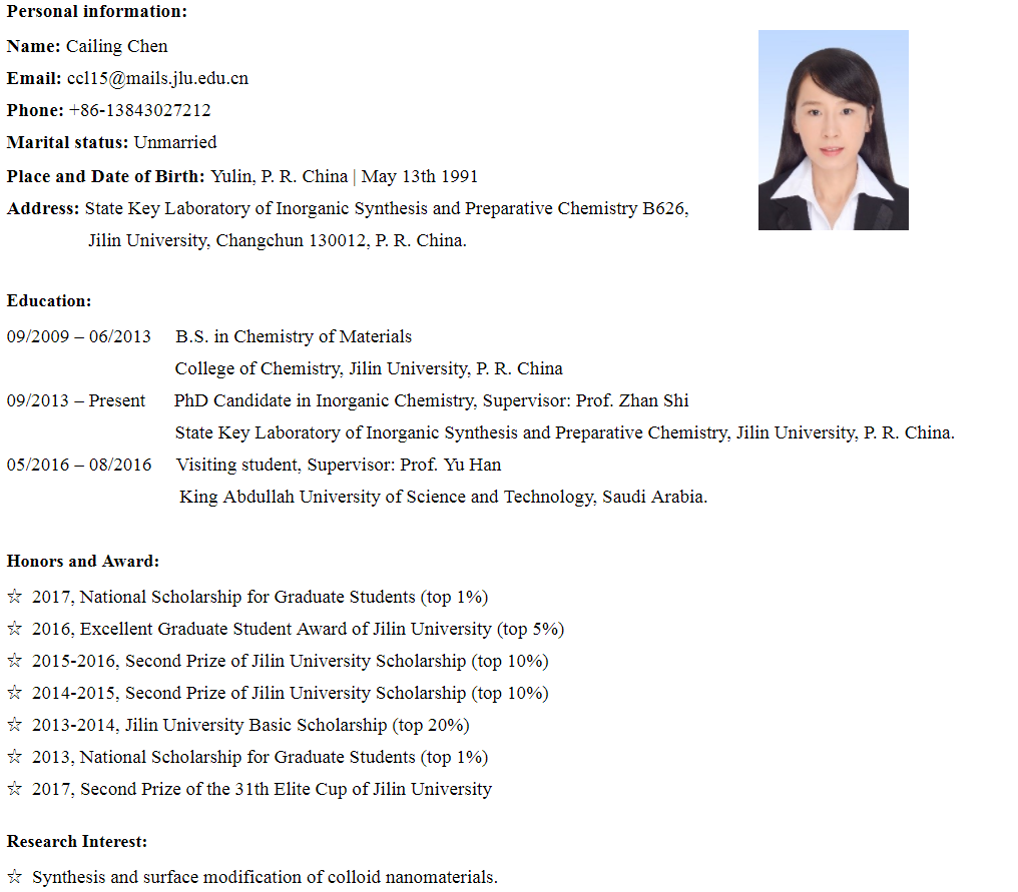
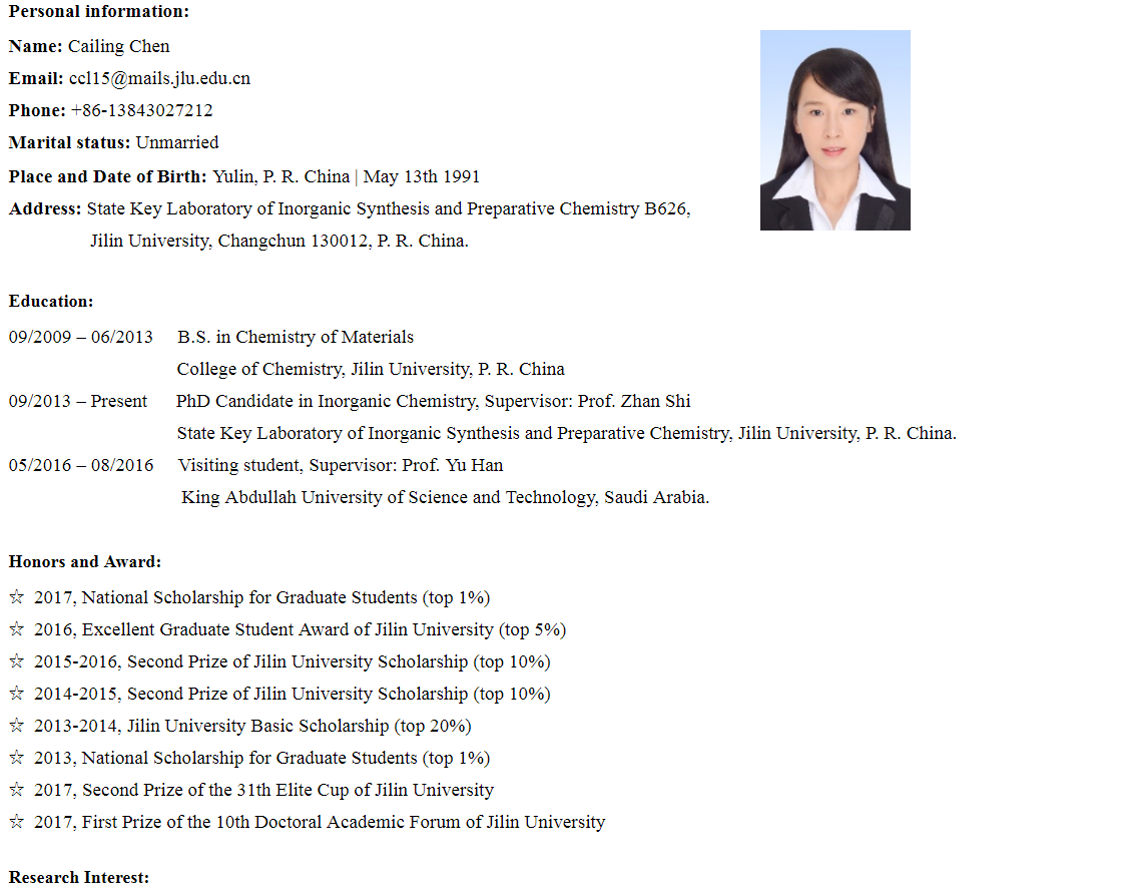
Add files via upload

Changed region(s): [[0.0, 0.6054, 0.5481, 0.9989], [0.0, 0.0, 0.9136, 0.3027], [0.0, 0.333, 0.944, 0.5751]]

diff --git a/resume.EN.html b/resume.EN.html
@@ -59,7 +59,7 @@ Jilin University, Changchun 130012, P. R. China.
 <font size='4';><b>Honors and Award:</b></font>
 </div>
 
-<div id='content' style='height:250px;width:900px;float:left;line-height:170%;'>
+<div id='content' style='height:285px;width:900px;float:left;line-height:170%;'>
 ☆&nbsp; 2017, National Scholarship for Graduate Students (top 1%) <br>
 ☆&nbsp; 2016, Excellent Graduate Student Award of Jilin University (top 5%)<br>
 ☆&nbsp; 2015-2016, Second Prize of Jilin University Scholarship (top 10%)<br>
@@ -67,6 +67,7 @@ Jilin University, Changchun 130012, P. R. China.
 ☆&nbsp; 2013-2014, Jilin University Basic Scholarship (top 20%)<br>
 ☆&nbsp; 2013, National Scholarship for Graduate Students (top 1%)<br>
 ☆&nbsp; 2017, Second Prize of the 31th Elite Cup of Jilin University<br>
+☆&nbsp; 2017, First Prize of the 10th  Doctoral Academic Forum of Jilin University<br>
 </div>
 
 
@@ -103,11 +104,12 @@ Micrograph, Origin, CIE, <br>&emsp;  ChemBioOffice, Jade, XPS Peakfit, Endnote, 
 <font size='4';><b>Participate in/submit paper to academic conferences:</b></font>
 </div>
 
-<div id='content' style='height:150px;width:1000px;float:left;line-height:170%;'>
+<div id='content' style='height:180px;width:1000px;float:left;line-height:170%;'>
 ☆&nbsp; 6th International Conference on Nanoscience and Technology, September 2015, Beijing<br>
 ☆&nbsp; Horiba Fluorescence Training Course, November 2015, Beijing<br>
 ☆&nbsp; 9th Academic Forum for Doctoral Students of Jilin University, November 2016, Changchun<br>
 ☆&nbsp; 7th International Conference on Nanoscience and Technology, August 2017, Beijing<br>
+☆&nbsp; 10th Academic Forum for Doctoral Students of Jilin University, November 2016, Changchun<br>
 </div>
 
 
@@ -115,7 +117,7 @@ Micrograph, Origin, CIE, <br>&emsp;  ChemBioOffice, Jade, XPS Peakfit, Endnote, 
 <font size='4';><b>Publications:</b></font>
 </div>
 
-<div id='content' style='height:1340px;width:1000px;float:left;line-height:170%;'>
+<div id='content' style='height:1210px;width:1000px;float:left;line-height:170%;'>
 1. &nbsp;	<b>C. Chen</b>; Y.Yu; C. Li*; D. Liu; H. Huang, C. Liang; Y. Lou; Y. Han; Z. Shi*; S. Feng, Facile synthesis of water-soluble t-<br>&nbsp;  &emsp;LaVO<sub>4</sub>:Ln<sup>3+</sup> nanoparticles for anti-fake ink and latent fingermark detection. <b>Small.</b> 2017, Accepted, <br>&nbsp;  &emsp;DOI:10.1002/smll.201702305.<br>
 
 2. &nbsp;	<b>C. Chen</b>; J. Liu; Y. Chen; C. Li*; X. Liu; H. Huang; C. Liang; Y. Lou; Z. Shi; S. Feng, Sub-10 nm <br>&nbsp;  &emsp;Sr<sub>2</sub>LuF<sub>7</sub>:Yb/Er@Sr<sub>2</sub>GdF<sub>7</sub>@SrF<sub>2</sub> up-conversion nanocrystals for up-conversion luminescence-magnetic resonance-computed <br>&nbsp;  &emsp;tomography trimodal bioimaging. <b>ACS Appl. Mater. Interfaces</b> 2017,9(7), 5748-56.<br>
@@ -128,25 +130,21 @@ Micrograph, Origin, CIE, <br>&emsp;  ChemBioOffice, Jade, XPS Peakfit, Endnote, 
 
 6. &nbsp;	<b>C. Chen</b>; C. Li*; L. Zhao; X. Liu; T. Bai; H. Huang; Z. Shi*; S. Feng, A facile synthesis of water-soluble BaYF<sub>5</sub>:Ln<sup>3+</sup> NCs <br>&nbsp;  &emsp;with excellent luminescent properties as promising contrast agent for dual-modal bioimaging. <b>Inorg. Chem. Commun.</b> 2015, <br>&nbsp;  &emsp;62, 11-4. <br>
 
-7. &nbsp;	<b>C. Chen</b>; N. Zhu; C. Li*; C. Liang; Y. Lou; Z. Shi*; S. Feng, A ratiometric fluorescent probe based on upconversion <br>&nbsp;  &emsp;nanoparticles for peroxynitrite sensing through FRET. <b>In preparation.</b><br>
+7. &nbsp;	W. Cheng; <b>C. Chen</b>; Y. Yu; C. Li; L. Gao*; Z. Shi, Facile synthesis of ZIFs-derived hollow bimetal (Zn,Co)S nanocrystals for <br>&nbsp;  &emsp;supercapacitors. <b>Chemical Journal of Chinese Universities</b>, 2017, 38(8), 1303-8.<br>
 
-8. &nbsp;	<b>C. Chen</b>; C. Li*; Z. Shi*; S. Feng, A tumor imaging and therapy platform based on upconversion NaGdF<sub>4</sub>@Cu<sub>(2-x)</sub>S <br>&nbsp;  &emsp;nanoparticles. <b>In preparation.</b><br>
+8. &nbsp;	T. Bai; S. Xing; Y. Lou; <b>C. Chen</b>; H. Huang; C. Li*; Z. Shi*; S. Feng, Colloidal synthesis of quaternary wurtzite Cu<sub>3</sub>AlSnS<sub>5</sub> <br>&nbsp;  &emsp;nanocrystals and their photoresponsive properties. <b>ChemPlusChem</b> 2015, 80 (4), 652-5.<br>
 
-9. &nbsp;	W. Cheng; <b>C. Chen</b>; Y. Yu; C. Li; L. Gao*; Z. Shi, Facile synthesis of ZIFs-derived hollow bimetal (Zn,Co)S nanocrystals for <br>&nbsp;  &emsp;supercapacitors. <b>Chemical Journal of Chinese Universities</b>, 2017, 38(8), 1303-8.<br>
+9. &nbsp;	C. Liang; J. Bao; C. Li; H. Huang; <b>C. Chen</b>; Y. Lou; H. Lu*; H. Lin; Z. Shi*; S. Feng, One-dimensional hierarchically <br>&nbsp;  &emsp;porous carbon from biomass with high capacitance as supercapacitor materials. <b>Micropor. Mesopor. Mat.</b> 2017, 251, 77-82.<br>
 
-10.&nbsp;	T. Bai; S. Xing; Y. Lou; <b>C. Chen</b>; H. Huang; C. Li*; Z. Shi*; S. Feng, Colloidal synthesis of quaternary wurtzite Cu<sub>3</sub>AlSnS<sub>5</sub> <br>&nbsp;  &emsp;nanocrystals and their photoresponsive properties. <b>ChemPlusChem</b> 2015, 80 (4), 652-5.<br>
+10.&nbsp;	D. Ma; B. Li*; Z. Cui; K. Liu; <b>C. Chen</b>; G. Li; J. Hua; B. Ma; Z. Shi*; S. Feng, Multifunctional luminescent porous organic <br>&nbsp;  &emsp;polymer for selectively detecting iron ions and 1,4-dioxane via luminescent turn-off and turn-on sensing. <b>ACS Appl. Mater. <br>&nbsp;  &emsp;Interfaces</b> 2016, 8 (36), 24097-103.<br>
 
-11.&nbsp;	C. Liang; J. Bao; C. Li; H. Huang; <b>C. Chen</b>; Y. Lou; H. Lu*; H. Lin; Z. Shi*; S. Feng, One-dimensional hierarchically <br>&nbsp;  &emsp;porous carbon from biomass with high capacitance as supercapacitor materials. <b>Micropor. Mesopor. Mat.</b> 2017, 251, 77-82.<br>
+11.&nbsp;	Y. Lou; C. Li; X. Gao; T. Bai; <b>C. Chen</b>; H. Huang; C. Liang; Z. Shi*; S. Feng, Porous Pt nanotubes with high methanol <br>&nbsp;  &emsp;oxidation electrocatalytic activity based on original bamboo-Shaped Te nanotubes. <b>ACS Appl. Mater. Interfaces</b> 2016, 8 <br>&nbsp;  &emsp;(25), 16147-53.<br>
 
-12.&nbsp;	D. Ma; B. Li*; Z. Cui; K. Liu; <b>C. Chen</b>; G. Li; J. Hua; B. Ma; Z. Shi*; S. Feng, Multifunctional luminescent porous organic <br>&nbsp;  &emsp;polymer for selectively detecting iron ions and 1,4-dioxane via luminescent turn-off and turn-on sensing. <b>ACS Appl. Mater. <br>&nbsp;  &emsp;Interfaces</b> 2016, 8 (36), 24097-103.<br>
+12.&nbsp;	H. Huang; C. Li; S. Zhu; H. Wang; <b>C. Chen</b>; Z. Wang; T. Bai; Z. Shi*; S. Feng, Histidine-derived nontoxic nitrogen-doped <br>&nbsp;  &emsp;carbon dots for sensing and bioimaging applications. <b>Langmuir</b> 2014, 30 (45), 13542-8.<br>
 
-13.&nbsp;	Y. Lou; C. Li; X. Gao; T. Bai; <b>C. Chen</b>; H. Huang; C. Liang; Z. Shi*; S. Feng, Porous Pt nanotubes with high methanol <br>&nbsp;  &emsp;oxidation electrocatalytic activity based on original bamboo-Shaped Te nanotubes. <b>ACS Appl. Mater. Interfaces</b> 2016, 8 <br>&nbsp;  &emsp;(25), 16147-53.<br>
+13.&nbsp;	Y. Lou; W. Zhao; C. Li*; H. Huang; T. Bai; <b>C. Chen</b>; C. Liang; Z. Shi*; D. Zhang; X. Chen; S. Feng, Application of <br>&nbsp;  &emsp;Cu<sub>3</sub>InSnSe<sub>5</sub> heteronanostructures as counter electrodes for dye-sensitized solar cells. <b>ACS Appl. Mater. Interfaces</b> 2017, 9 <br>&nbsp;  &emsp;(21), 18046-53.<br>
 
-14.&nbsp;	H. Huang; C. Li; S. Zhu; H. Wang; <b>C. Chen</b>; Z. Wang; T. Bai; Z. Shi*; S. Feng, Histidine-derived nontoxic nitrogen-doped <br>&nbsp;  &emsp;carbon dots for sensing and bioimaging applications. <b>Langmuir</b> 2014, 30 (45), 13542-8.<br>
-
-15.&nbsp;	Y. Lou; W. Zhao; C. Li*; H. Huang; T. Bai; <b>C. Chen</b>; C. Liang; Z. Shi*; D. Zhang; X. Chen; S. Feng, Application of <br>&nbsp;  &emsp;Cu<sub>3</sub>InSnSe<sub>5</sub> heteronanostructures as counter electrodes for dye-sensitized solar cells. <b>ACS Appl. Mater. Interfaces</b> 2017, 9 <br>&nbsp;  &emsp;(21), 18046-53.<br>
-
-16.&nbsp;	T. Bai; C. Li; F. Li; L. Zhao; Z. Wang; H. Huang; <b>C. Chen</b>; Y. Han; Z. Shi*; S. Feng, A simple solution-phase approach to <br>&nbsp;  &emsp;synthesize high quality ternary AgInSe<sub>2</sub> and band gap tunable quaternary AgIn(S<sub>1-x</sub>Se<sub>x</sub>)<sub>2</sub> nanocrystals. <b>Nanoscale</b> 2014, 6 <br>&nbsp;  &emsp;(12), 6782-9.<br>
+14.&nbsp;	T. Bai; C. Li; F. Li; L. Zhao; Z. Wang; H. Huang; <b>C. Chen</b>; Y. Han; Z. Shi*; S. Feng, A simple solution-phase approach to <br>&nbsp;  &emsp;synthesize high quality ternary AgInSe<sub>2</sub> and band gap tunable quaternary AgIn(S<sub>1-x</sub>Se<sub>x</sub>)<sub>2</sub> nanocrystals. <b>Nanoscale</b> 2014, 6 <br>&nbsp;  &emsp;(12), 6782-9.<br>
 
 <br>
 </div>

diff --git a/An.CN.html b/An.CN.html
@@ -4,8 +4,26 @@
 </div>
 
 <img src="8.png">
-<img src="9.png">
-<img src="10.png">
+<img src="9.png" usemap="#map1">
+<map name="map1">
+    <area shape="rect" coords="760, 460, 860, 500" href="http://onlinelibrary.wiley.com/wol1/doi/10.1002/smll.201702305/abstract">
+	<area shape="rect" coords="160, 560, 260, 600" href="http://pubs.acs.org/doi/10.1021/acsami.6b14007">
+	<area shape="rect" coords="160, 640, 260, 680" href="http://onlinelibrary.wiley.com/doi/10.1002/advs.201600029/full">
+	<area shape="rect" coords="520, 720, 620, 760" href="http://onlinelibrary.wiley.com/doi/10.1002/slct.201600176/abstract">
+	<area shape="rect" coords="650, 795, 750, 835" href="http://onlinelibrary.wiley.com/doi/10.1002/ejic.201500212/full">
+</map>
+<img src="10.png" usemap="#map2">
+<map name="map2">
+	<area shape="rect" coords="780, 025, 880, 065" href="http://www.sciencedirect.com/science/article/pii/S1387700315301155">
+	<area shape="rect" coords="520, 100, 620, 140" href="http://www.cjcu.jlu.edu.cn/CN/abstract/abstract28102.shtml#">
+    <area shape="rect" coords="525, 175, 625, 215" href="http://onlinelibrary.wiley.com/doi/10.1002/cplu.201402431/abstract">
+	<area shape="rect" coords="710, 245, 810, 285" href="http://www.sciencedirect.com/science/article/pii/S1387181117303712">
+	<area shape="rect" coords="010, 340, 100, 380" href="http://pubs.acs.org/doi/10.1021/acsami.6b07470">
+	<area shape="rect" coords="820, 415, 920, 455" href="http://pubs.acs.org/doi/10.1021/acsami.6b05350">
+	<area shape="rect" coords="500, 485, 600, 525" href="http://pubs.acs.org/doi/abs/10.1021/la503969z">
+	<area shape="rect" coords="950, 560, 1050, 600" href="http://pubs.acs.org/doi/10.1021/acsami.7b03117">
+	<area shape="rect" coords="825, 640, 925, 680" href="http://pubs.rsc.org/en/Content/ArticleLanding/2014/NR/c4nr00233d#!divAbstract">
+</map>
 <img src="11.png">
 
 

diff --git a/An.EN.html b/An.EN.html
@@ -16,21 +16,21 @@ var isAndroid = u.indexOf('Android') > -1 || u.indexOf('Adr') > -1; //android终
 <img src="3.png">
 <img src="4.png" usemap="#map1">
 <map name="map1">
-    <area shape="rect" coords="630, 300, 720, 400" alt="link" href="http://www.sciencedirect.com/science/article/pii/S1387700315301155">
-	<area coords="" href="http://onlinelibrary.wiley.com/doi/10.1002/ejic.201500212/full">
+    <area shape="rect" coords="630, 335, 720, 375" alt="link" href="http://www.sciencedirect.com/science/article/pii/S1387700315301155">
+	<area shape="rect" coords="330, 820, 430, 860" href="http://onlinelibrary.wiley.com/doi/10.1002/ejic.201500212/full">
 </map>
 <img src="5.png" usemap="#map2">
 <map name="map2">
-	<area coords="" href="http://onlinelibrary.wiley.com/doi/10.1002/slct.201600176/abstract">
+	<area shape="rect" coords="660, 430, 760, 470" href="http://onlinelibrary.wiley.com/doi/10.1002/slct.201600176/abstract">
 </map>
-<img src="6.png">
-<map name="map3" usemap="#map3">
-    <area coords="" href="http://onlinelibrary.wiley.com/doi/10.1002/advs.201600029/full">
-	<area coords="" href="http://pubs.acs.org/doi/10.1021/acsami.6b14007">
+<img src="6.png" usemap="#map3">
+<map name="map3">
+    <area shape="rect" coords="900, 95, 1000, 135" href="http://onlinelibrary.wiley.com/doi/10.1002/advs.201600029/full">
+	<area shape="rect" coords="900, 670, 1000, 710" href="http://pubs.acs.org/doi/10.1021/acsami.6b14007">
 </map>
-<img src="7.png">
-<map name="map4" usemap="#map4">
-	<area coords="" href="http://onlinelibrary.wiley.com/wol1/doi/10.1002/smll.201702305/abstract">
+<img src="7.png" usemap="#map4">
+<map name="map4">
+	<area shape="rect" coords="250, 470, 350, 510" href="http://onlinelibrary.wiley.com/wol1/doi/10.1002/smll.201702305/abstract">
 </map>
 
 </html>

diff --git a/index.html b/index.html
@@ -3,7 +3,7 @@
 
 <script type="text/javascript">
 var u = navigator.userAgent;
-var isAndroid = u.indexOf('Android') > -1 || u.indexOf('Adr') > -1;
+var isAndroid = u.indexOf('Android') > -1 || u.indexOf('Adr') > -1 || u.match(/MicroMessenger/i) == "micromessenger";
 if (isAndroid){
     //<meta charset='utf-8' http-equiv="refresh" content="0.1;url=An.EN.html">
     location.href = "An.EN.html";

diff --git a/resume.CN.html b/resume.CN.html
@@ -50,7 +50,7 @@ p
 </div>
 
 <div id='content' style='height:50px;width:800px;float:left;'>
-材料化学相关领域教学、科研工作<br>
+材料化学、纳米医学等相关领域的教学、科研工作<br>
 </div>
 
 
